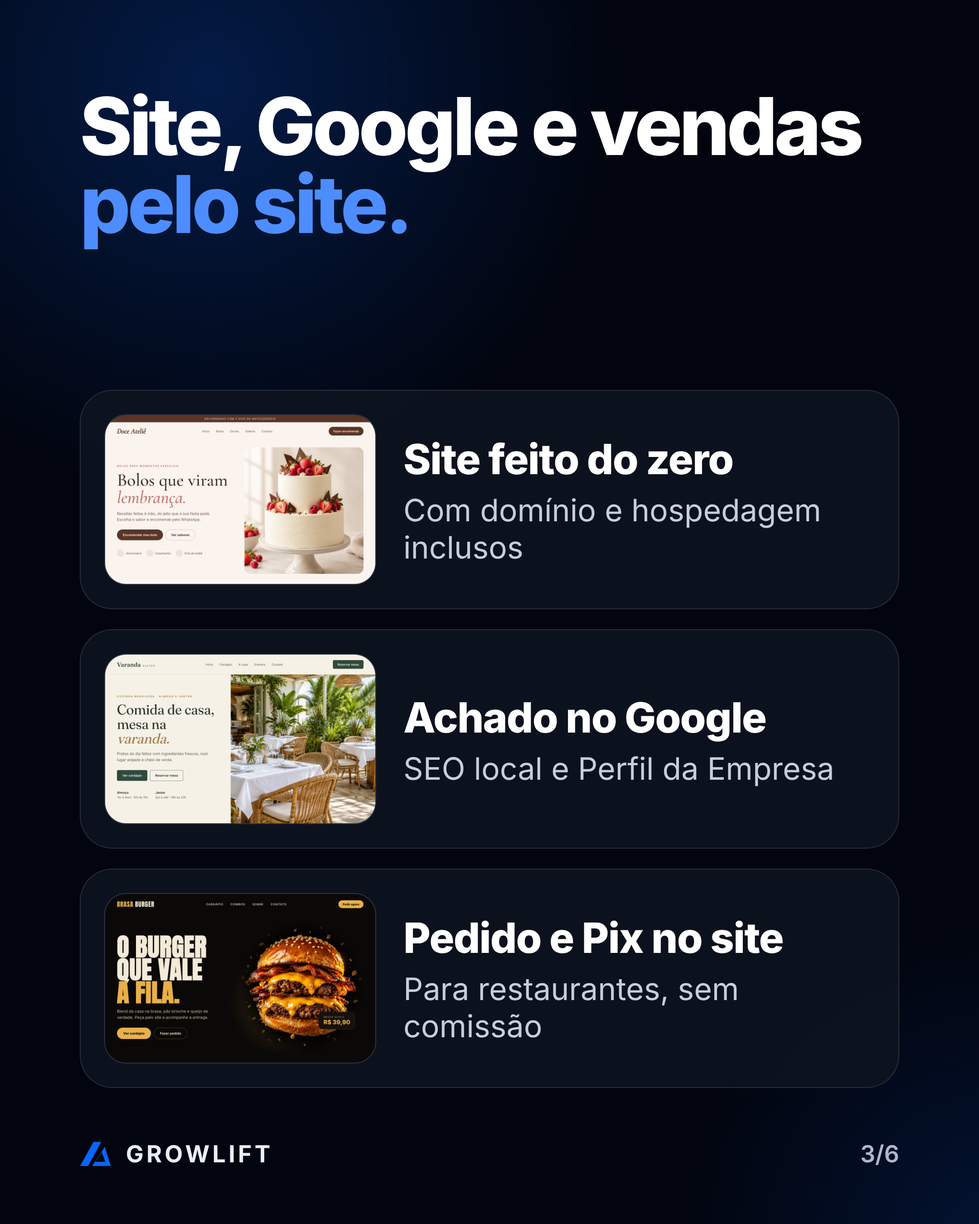
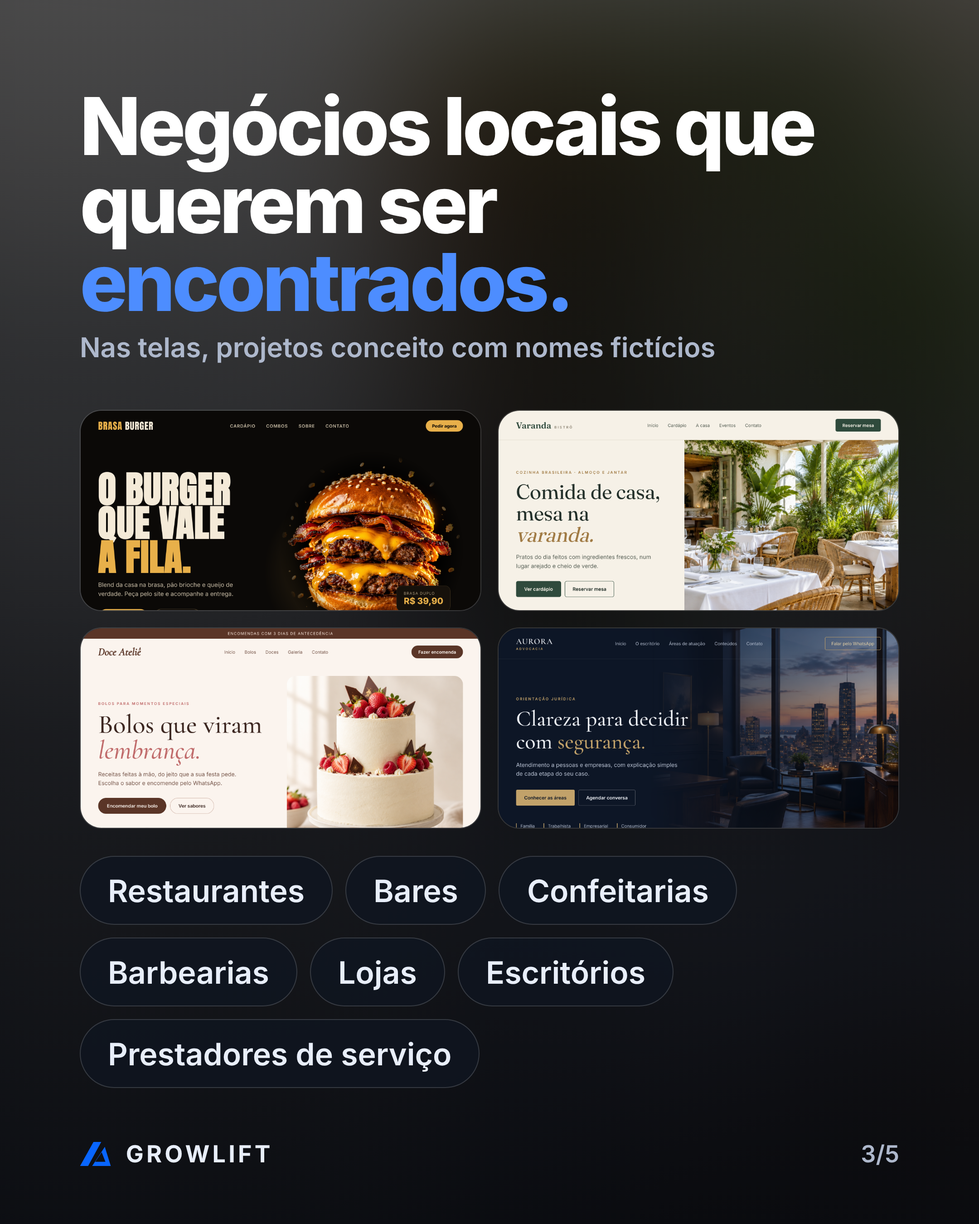
Instagram: Quem somos com 5 imagens, sem o slide do Lucas e do Antônio
Claude-Session: https://claude.ai/code/session_0144E8K5YaHTVDtLe8swm1ug

diff --git a/growlift-social/_fonte/html/04-posts-fixados/1-quem-somos/04.html b/growlift-social/_fonte/html/04-posts-fixados/1-quem-somos/04.html
@@ -38,11 +38,22 @@ body{background:#02050f}
 .feat b{flex:none;width:58px;height:58px;border-radius:50%;display:grid;place-items:center;background:#0865fe;box-shadow:0 10px 30px -8px rgba(8,101,254,.9)}
 </style></head><body>
     
-    <img src="hd/restaurante.png" style="position:absolute;left:-200px;top:-200px;width:1480px;height:1750px;object-fit:cover;filter:blur(90px) saturate(1.35);opacity:.7">
     
-    <div style="position:absolute;inset:0;background:linear-gradient(180deg,rgba(6,8,13,.6),rgba(6,8,13,.88) 60%,rgba(6,8,13,.96))"></div>
+    <div class="glow" style="width:1300px;height:1300px;left:-420px;top:-560px;opacity:.55"></div><div class="glow" style="width:1000px;height:1000px;right:-520px;bottom:-520px;opacity:.35"></div>
+    <div style="position:absolute;inset:0;background:transparent"></div>
     <div style="position:absolute;left:88px;right:88px;top:96px;bottom:150px">
-    <h2 class="t-title" style="font-size:88px">Negócios locais que querem ser <span class="blue">encontrados.</span><span style="display:block;margin-top:14px;font-size:30px;font-weight:600;letter-spacing:0;color:#aeb8cc">Nas telas, projetos conceito com nomes fictícios</span></h2>
-    
-    <div style="position:absolute;left:0;right:0;bottom:0"><div style="display:grid;grid-template-columns:1fr 1fr;gap:18px;margin-bottom:30px"><img src="hd/burger.png" style="display:block;width:100%;height:222px;object-fit:cover;object-position:top;border-radius:24px;border:1.5px solid rgba(255,255,255,.14)"><img src="hd/restaurante.png" style="display:block;width:100%;height:222px;object-fit:cover;object-position:top;border-radius:24px;border:1.5px solid rgba(255,255,255,.14)"><img src="hd/confeitaria.png" style="display:block;width:100%;height:222px;object-fit:cover;object-position:top;border-radius:24px;border:1.5px solid rgba(255,255,255,.14)"><img src="hd/advocacia.png" style="display:block;width:100%;height:222px;object-fit:cover;object-position:top;border-radius:24px;border:1.5px solid rgba(255,255,255,.14)"></div><div style="display:flex;flex-wrap:wrap;gap:14px"><span style="height:76px;padding:0 30px;border-radius:999px;display:inline-flex;align-items:center;font-size:34px;font-weight:600;color:#e8eefa;background:rgba(15,21,32,.8);border:1.5px solid rgba(255,255,255,.16)">Restaurantes</span><span style="height:76px;padding:0 30px;border-radius:999px;display:inline-flex;align-items:center;font-size:34px;font-weight:600;color:#e8eefa;background:rgba(15,21,32,.8);border:1.5px solid rgba(255,255,255,.16)">Bares</span><span style="height:76px;padding:0 30px;border-radius:999px;display:inline-flex;align-items:center;font-size:34px;font-weight:600;color:#e8eefa;background:rgba(15,21,32,.8);border:1.5px solid rgba(255,255,255,.16)">Confeitarias</span><span style="height:76px;padding:0 30px;border-radius:999px;display:inline-flex;align-items:center;font-size:34px;font-weight:600;color:#e8eefa;background:rgba(15,21,32,.8);border:1.5px solid rgba(255,255,255,.16)">Barbearias</span><span style="height:76px;padding:0 30px;border-radius:999px;display:inline-flex;align-items:center;font-size:34px;font-weight:600;color:#e8eefa;background:rgba(15,21,32,.8);border:1.5px solid rgba(255,255,255,.16)">Lojas</span><span style="height:76px;padding:0 30px;border-radius:999px;display:inline-flex;align-items:center;font-size:34px;font-weight:600;color:#e8eefa;background:rgba(15,21,32,.8);border:1.5px solid rgba(255,255,255,.16)">Escritórios</span><span style="height:76px;padding:0 30px;border-radius:999px;display:inline-flex;align-items:center;font-size:34px;font-weight:600;color:#e8eefa;background:rgba(15,21,32,.8);border:1.5px solid rgba(255,255,255,.16)">Prestadores de serviço</span></div></div></div>
-    <div style="position:absolute;left:88px;right:88px;bottom:62px;display:flex;justify-content:space-between;align-items:center;font-size:26px;color:#aeb8cc"><div class="brand" style="font-size:26px;color:#e8eefa"><svg viewBox="50 40 530 415" xmlns="http://www.w3.org/2000/svg"><path fill="#0865FE" d="M280 48H410L190 450H55Z"/><path fill="#0865FE" fill-rule="evenodd" d="M470 130L570 450H258Z M418 220L480 380H309Z"/></svg>GROWLIFT</div><span style="font-weight:600">4/6</span></div></body></html>
+    <h2 class="t-title" style="font-size:88px">Você vê o site antes de <span class="blue">pagar.</span></h2>
+    <p class="t-lead" style="font-size:38px;margin-top:22px">Três passos, sem surpresa no caminho.</p>
+    <ol style="position:absolute;left:0;right:0;bottom:0;list-style:none;display:grid;gap:22px">
+      <li style="display:flex;gap:30px;align-items:center;padding:26px;border-radius:36px;background:rgba(15,21,32,.8);border:1.5px solid rgba(255,255,255,.12)">
+        <span style="flex:none;width:132px;height:132px;margin:8px 4px 8px 8px;border-radius:36px;display:grid;place-items:center;font-size:66px;font-weight:800;color:#fff;background:#0865fe;box-shadow:0 16px 40px -10px rgba(8,101,254,.9)">1</span>
+        <span><span style="display:block;font-size:46px;font-weight:800;color:#fff;letter-spacing:-.02em">Diagnóstico grátis</span><span style="display:block;font-size:34px;color:#c6cede;margin-top:8px">Pelo site, em 2 minutos</span></span>
+      </li><li style="display:flex;gap:30px;align-items:center;padding:26px;border-radius:36px;background:rgba(15,21,32,.8);border:1.5px solid rgba(255,255,255,.12)">
+        <span style="flex:none;width:132px;height:132px;margin:8px 4px 8px 8px;border-radius:36px;display:grid;place-items:center;font-size:66px;font-weight:800;color:#fff;background:#0865fe;box-shadow:0 16px 40px -10px rgba(8,101,254,.9)">2</span>
+        <span><span style="display:block;font-size:46px;font-weight:800;color:#fff;letter-spacing:-.02em">Prévia no WhatsApp</span><span style="display:block;font-size:34px;color:#c6cede;margin-top:8px">Em até 2 dias úteis</span></span>
+      </li><li style="display:flex;gap:30px;align-items:center;padding:26px;border-radius:36px;background:rgba(15,21,32,.8);border:1.5px solid rgba(255,255,255,.12)">
+        <span style="flex:none;width:132px;height:132px;margin:8px 4px 8px 8px;border-radius:36px;display:grid;place-items:center;font-size:66px;font-weight:800;color:#fff;background:#0865fe;box-shadow:0 16px 40px -10px rgba(8,101,254,.9)">3</span>
+        <span><span style="display:block;font-size:46px;font-weight:800;color:#fff;letter-spacing:-.02em">Site no ar</span><span style="display:block;font-size:34px;color:#c6cede;margin-top:8px">Com o seu domínio</span></span>
+      </li>
+    </ol></div>
+    <div style="position:absolute;left:88px;right:88px;bottom:62px;display:flex;justify-content:space-between;align-items:center;font-size:26px;color:#aeb8cc"><div class="brand" style="font-size:26px;color:#e8eefa"><svg viewBox="50 40 530 415" xmlns="http://www.w3.org/2000/svg"><path fill="#0865FE" d="M280 48H410L190 450H55Z"/><path fill="#0865FE" fill-rule="evenodd" d="M470 130L570 450H258Z M418 220L480 380H309Z"/></svg>GROWLIFT</div><span style="font-weight:600">4/5</span></div></body></html>

diff --git a/growlift-social/_fonte/html/04-posts-fixados/1-quem-somos/03.html b/growlift-social/_fonte/html/04-posts-fixados/1-quem-somos/03.html
@@ -38,22 +38,11 @@ body{background:#02050f}
 .feat b{flex:none;width:58px;height:58px;border-radius:50%;display:grid;place-items:center;background:#0865fe;box-shadow:0 10px 30px -8px rgba(8,101,254,.9)}
 </style></head><body>
     
+    <img src="hd/restaurante.png" style="position:absolute;left:-200px;top:-200px;width:1480px;height:1750px;object-fit:cover;filter:blur(90px) saturate(1.35);opacity:.7">
     
-    <div class="glow" style="width:1300px;height:1300px;left:-420px;top:-560px;opacity:.55"></div><div class="glow" style="width:1000px;height:1000px;right:-520px;bottom:-520px;opacity:.35"></div>
-    <div style="position:absolute;inset:0;background:transparent"></div>
+    <div style="position:absolute;inset:0;background:linear-gradient(180deg,rgba(6,8,13,.6),rgba(6,8,13,.88) 60%,rgba(6,8,13,.96))"></div>
     <div style="position:absolute;left:88px;right:88px;top:96px;bottom:150px">
-    <h2 class="t-title" style="font-size:88px">Site, Google e vendas <span class="blue">pelo site.</span></h2>
+    <h2 class="t-title" style="font-size:88px">Negócios locais que querem ser <span class="blue">encontrados.</span><span style="display:block;margin-top:14px;font-size:30px;font-weight:600;letter-spacing:0;color:#aeb8cc">Nas telas, projetos conceito com nomes fictícios</span></h2>
     
-    <ol style="position:absolute;left:0;right:0;bottom:0;list-style:none;display:grid;gap:22px">
-      <li style="display:flex;gap:30px;align-items:center;padding:26px;border-radius:36px;background:rgba(15,21,32,.8);border:1.5px solid rgba(255,255,255,.12)">
-        <img src="hd/confeitaria.png" style="flex:none;width:300px;height:188px;object-fit:cover;object-position:top;border-radius:24px;border:1.5px solid rgba(255,255,255,.14)">
-        <span><span style="display:block;font-size:46px;font-weight:800;color:#fff;letter-spacing:-.02em">Site feito do zero</span><span style="display:block;font-size:34px;color:#c6cede;margin-top:8px">Com domínio e hospedagem inclusos</span></span>
-      </li><li style="display:flex;gap:30px;align-items:center;padding:26px;border-radius:36px;background:rgba(15,21,32,.8);border:1.5px solid rgba(255,255,255,.12)">
-        <img src="hd/restaurante.png" style="flex:none;width:300px;height:188px;object-fit:cover;object-position:top;border-radius:24px;border:1.5px solid rgba(255,255,255,.14)">
-        <span><span style="display:block;font-size:46px;font-weight:800;color:#fff;letter-spacing:-.02em">Achado no Google</span><span style="display:block;font-size:34px;color:#c6cede;margin-top:8px">SEO local e Perfil da Empresa</span></span>
-      </li><li style="display:flex;gap:30px;align-items:center;padding:26px;border-radius:36px;background:rgba(15,21,32,.8);border:1.5px solid rgba(255,255,255,.12)">
-        <img src="hd/burger.png" style="flex:none;width:300px;height:188px;object-fit:cover;object-position:top;border-radius:24px;border:1.5px solid rgba(255,255,255,.14)">
-        <span><span style="display:block;font-size:46px;font-weight:800;color:#fff;letter-spacing:-.02em">Pedido e Pix no site</span><span style="display:block;font-size:34px;color:#c6cede;margin-top:8px">Para restaurantes, sem comissão</span></span>
-      </li>
-    </ol></div>
-    <div style="position:absolute;left:88px;right:88px;bottom:62px;display:flex;justify-content:space-between;align-items:center;font-size:26px;color:#aeb8cc"><div class="brand" style="font-size:26px;color:#e8eefa"><svg viewBox="50 40 530 415" xmlns="http://www.w3.org/2000/svg"><path fill="#0865FE" d="M280 48H410L190 450H55Z"/><path fill="#0865FE" fill-rule="evenodd" d="M470 130L570 450H258Z M418 220L480 380H309Z"/></svg>GROWLIFT</div><span style="font-weight:600">3/6</span></div></body></html>
+    <div style="position:absolute;left:0;right:0;bottom:0"><div style="display:grid;grid-template-columns:1fr 1fr;gap:18px;margin-bottom:30px"><img src="hd/burger.png" style="display:block;width:100%;height:222px;object-fit:cover;object-position:top;border-radius:24px;border:1.5px solid rgba(255,255,255,.14)"><img src="hd/restaurante.png" style="display:block;width:100%;height:222px;object-fit:cover;object-position:top;border-radius:24px;border:1.5px solid rgba(255,255,255,.14)"><img src="hd/confeitaria.png" style="display:block;width:100%;height:222px;object-fit:cover;object-position:top;border-radius:24px;border:1.5px solid rgba(255,255,255,.14)"><img src="hd/advocacia.png" style="display:block;width:100%;height:222px;object-fit:cover;object-position:top;border-radius:24px;border:1.5px solid rgba(255,255,255,.14)"></div><div style="display:flex;flex-wrap:wrap;gap:14px"><span style="height:76px;padding:0 30px;border-radius:999px;display:inline-flex;align-items:center;font-size:34px;font-weight:600;color:#e8eefa;background:rgba(15,21,32,.8);border:1.5px solid rgba(255,255,255,.16)">Restaurantes</span><span style="height:76px;padding:0 30px;border-radius:999px;display:inline-flex;align-items:center;font-size:34px;font-weight:600;color:#e8eefa;background:rgba(15,21,32,.8);border:1.5px solid rgba(255,255,255,.16)">Bares</span><span style="height:76px;padding:0 30px;border-radius:999px;display:inline-flex;align-items:center;font-size:34px;font-weight:600;color:#e8eefa;background:rgba(15,21,32,.8);border:1.5px solid rgba(255,255,255,.16)">Confeitarias</span><span style="height:76px;padding:0 30px;border-radius:999px;display:inline-flex;align-items:center;font-size:34px;font-weight:600;color:#e8eefa;background:rgba(15,21,32,.8);border:1.5px solid rgba(255,255,255,.16)">Barbearias</span><span style="height:76px;padding:0 30px;border-radius:999px;display:inline-flex;align-items:center;font-size:34px;font-weight:600;color:#e8eefa;background:rgba(15,21,32,.8);border:1.5px solid rgba(255,255,255,.16)">Lojas</span><span style="height:76px;padding:0 30px;border-radius:999px;display:inline-flex;align-items:center;font-size:34px;font-weight:600;color:#e8eefa;background:rgba(15,21,32,.8);border:1.5px solid rgba(255,255,255,.16)">Escritórios</span><span style="height:76px;padding:0 30px;border-radius:999px;display:inline-flex;align-items:center;font-size:34px;font-weight:600;color:#e8eefa;background:rgba(15,21,32,.8);border:1.5px solid rgba(255,255,255,.16)">Prestadores de serviço</span></div></div></div>
+    <div style="position:absolute;left:88px;right:88px;bottom:62px;display:flex;justify-content:space-between;align-items:center;font-size:26px;color:#aeb8cc"><div class="brand" style="font-size:26px;color:#e8eefa"><svg viewBox="50 40 530 415" xmlns="http://www.w3.org/2000/svg"><path fill="#0865FE" d="M280 48H410L190 450H55Z"/><path fill="#0865FE" fill-rule="evenodd" d="M470 130L570 450H258Z M418 220L480 380H309Z"/></svg>GROWLIFT</div><span style="font-weight:600">3/5</span></div></body></html>

diff --git a/growlift-social/_fonte/html/04-posts-fixados/1-quem-somos/02.html b/growlift-social/_fonte/html/04-posts-fixados/1-quem-somos/02.html
@@ -42,8 +42,18 @@ body{background:#02050f}
     <div class="glow" style="width:1300px;height:1300px;left:-420px;top:-560px;opacity:.55"></div><div class="glow" style="width:1000px;height:1000px;right:-520px;bottom:-520px;opacity:.35"></div>
     <div style="position:absolute;inset:0;background:transparent"></div>
     <div style="position:absolute;left:88px;right:88px;top:96px;bottom:150px">
-    <h2 class="t-title" style="font-size:88px">Gente de verdade do outro lado do <span class="blue">WhatsApp.</span></h2>
-    <p class="t-lead" style="font-size:38px;margin-top:26px">A Growlift é o Lucas e o Antônio. Somos jovens, de São Paulo, e crescemos usando a internet do jeito que o seu cliente usa.</p>
-    <div style="position:absolute;left:0;right:0;bottom:0"><div style="display:grid;grid-template-columns:1fr 1fr;gap:24px"><div style="height:470px;display:flex;flex-direction:column;align-items:center;justify-content:center;gap:34px;border-radius:40px;background:rgba(15,21,32,.8);border:1.5px solid rgba(255,255,255,.12)"><span style="width:230px;height:230px;border-radius:50%;display:grid;place-items:center;font-size:120px;font-weight:800;color:#fff;background:radial-gradient(circle at 34% 26%,#4d8dff,#0865fe 45%,#0544b8);box-shadow:0 30px 70px -18px rgba(8,101,254,.95)">L</span><span style="font-size:58px;font-weight:800;letter-spacing:-.02em">Lucas</span></div><div style="height:470px;display:flex;flex-direction:column;align-items:center;justify-content:center;gap:34px;border-radius:40px;background:rgba(15,21,32,.8);border:1.5px solid rgba(255,255,255,.12)"><span style="width:230px;height:230px;border-radius:50%;display:grid;place-items:center;font-size:120px;font-weight:800;color:#fff;background:radial-gradient(circle at 34% 26%,#4d8dff,#0865fe 45%,#0544b8);box-shadow:0 30px 70px -18px rgba(8,101,254,.95)">A</span><span style="font-size:58px;font-weight:800;letter-spacing:-.02em">Antônio</span></div></div>
-  <p style="margin-top:24px;font-size:34px;color:#dfe5f0;display:flex;align-items:center;gap:14px"><svg width="40" height="40" viewBox="0 0 24 24" fill="none" stroke="#4d8dff" stroke-width="2" stroke-linecap="round" stroke-linejoin="round" aria-hidden="true"><path d="M12 21s-7-6.2-7-11.5a7 7 0 0 1 14 0C19 14.8 12 21 12 21z"/><circle cx="12" cy="9.5" r="2.5"/></svg>São Paulo · atendimento pelo WhatsApp</p></div></div>
-    <div style="position:absolute;left:88px;right:88px;bottom:62px;display:flex;justify-content:space-between;align-items:center;font-size:26px;color:#aeb8cc"><div class="brand" style="font-size:26px;color:#e8eefa"><svg viewBox="50 40 530 415" xmlns="http://www.w3.org/2000/svg"><path fill="#0865FE" d="M280 48H410L190 450H55Z"/><path fill="#0865FE" fill-rule="evenodd" d="M470 130L570 450H258Z M418 220L480 380H309Z"/></svg>GROWLIFT</div><span style="font-weight:600">2/6</span></div></body></html>
+    <h2 class="t-title" style="font-size:88px">Site, Google e vendas <span class="blue">pelo site.</span></h2>
+    
+    <ol style="position:absolute;left:0;right:0;bottom:0;list-style:none;display:grid;gap:22px">
+      <li style="display:flex;gap:30px;align-items:center;padding:26px;border-radius:36px;background:rgba(15,21,32,.8);border:1.5px solid rgba(255,255,255,.12)">
+        <img src="hd/confeitaria.png" style="flex:none;width:300px;height:188px;object-fit:cover;object-position:top;border-radius:24px;border:1.5px solid rgba(255,255,255,.14)">
+        <span><span style="display:block;font-size:46px;font-weight:800;color:#fff;letter-spacing:-.02em">Site feito do zero</span><span style="display:block;font-size:34px;color:#c6cede;margin-top:8px">Com domínio e hospedagem inclusos</span></span>
+      </li><li style="display:flex;gap:30px;align-items:center;padding:26px;border-radius:36px;background:rgba(15,21,32,.8);border:1.5px solid rgba(255,255,255,.12)">
+        <img src="hd/restaurante.png" style="flex:none;width:300px;height:188px;object-fit:cover;object-position:top;border-radius:24px;border:1.5px solid rgba(255,255,255,.14)">
+        <span><span style="display:block;font-size:46px;font-weight:800;color:#fff;letter-spacing:-.02em">Achado no Google</span><span style="display:block;font-size:34px;color:#c6cede;margin-top:8px">SEO local e Perfil da Empresa</span></span>
+      </li><li style="display:flex;gap:30px;align-items:center;padding:26px;border-radius:36px;background:rgba(15,21,32,.8);border:1.5px solid rgba(255,255,255,.12)">
+        <img src="hd/burger.png" style="flex:none;width:300px;height:188px;object-fit:cover;object-position:top;border-radius:24px;border:1.5px solid rgba(255,255,255,.14)">
+        <span><span style="display:block;font-size:46px;font-weight:800;color:#fff;letter-spacing:-.02em">Pedido e Pix no site</span><span style="display:block;font-size:34px;color:#c6cede;margin-top:8px">Para restaurantes, sem comissão</span></span>
+      </li>
+    </ol></div>
+    <div style="position:absolute;left:88px;right:88px;bottom:62px;display:flex;justify-content:space-between;align-items:center;font-size:26px;color:#aeb8cc"><div class="brand" style="font-size:26px;color:#e8eefa"><svg viewBox="50 40 530 415" xmlns="http://www.w3.org/2000/svg"><path fill="#0865FE" d="M280 48H410L190 450H55Z"/><path fill="#0865FE" fill-rule="evenodd" d="M470 130L570 450H258Z M418 220L480 380H309Z"/></svg>GROWLIFT</div><span style="font-weight:600">2/5</span></div></body></html>

diff --git a/growlift-social/_fonte/html/04-posts-fixados/1-quem-somos/05.html b/growlift-social/_fonte/html/04-posts-fixados/1-quem-somos/05.html
@@ -37,23 +37,15 @@ body{background:#02050f}
 .feat{display:flex;align-items:center;gap:24px;font-size:44px;font-weight:600;color:#f3f6fb;line-height:1.2}
 .feat b{flex:none;width:58px;height:58px;border-radius:50%;display:grid;place-items:center;background:#0865fe;box-shadow:0 10px 30px -8px rgba(8,101,254,.9)}
 </style></head><body>
+    <img src="hd/marca-vidro-vertical.png" style="position:absolute;left:0;top:-660px;width:1080px;height:1910px;object-fit:cover">
     
     
-    <div class="glow" style="width:1300px;height:1300px;left:-420px;top:-560px;opacity:.55"></div><div class="glow" style="width:1000px;height:1000px;right:-520px;bottom:-520px;opacity:.35"></div>
-    <div style="position:absolute;inset:0;background:transparent"></div>
+    <div style="position:absolute;inset:0;background:linear-gradient(180deg,rgba(2,5,15,.15) 0%,rgba(2,5,15,0) 35%,rgba(2,5,15,.82) 58%,#02050f 80%)"></div>
     <div style="position:absolute;left:88px;right:88px;top:96px;bottom:150px">
-    <h2 class="t-title" style="font-size:88px">Você vê o site antes de <span class="blue">pagar.</span></h2>
-    <p class="t-lead" style="font-size:38px;margin-top:22px">Três passos, sem surpresa no caminho.</p>
-    <ol style="position:absolute;left:0;right:0;bottom:0;list-style:none;display:grid;gap:22px">
-      <li style="display:flex;gap:30px;align-items:center;padding:26px;border-radius:36px;background:rgba(15,21,32,.8);border:1.5px solid rgba(255,255,255,.12)">
-        <span style="flex:none;width:132px;height:132px;margin:8px 4px 8px 8px;border-radius:36px;display:grid;place-items:center;font-size:66px;font-weight:800;color:#fff;background:#0865fe;box-shadow:0 16px 40px -10px rgba(8,101,254,.9)">1</span>
-        <span><span style="display:block;font-size:46px;font-weight:800;color:#fff;letter-spacing:-.02em">Diagnóstico grátis</span><span style="display:block;font-size:34px;color:#c6cede;margin-top:8px">Pelo site, em 2 minutos</span></span>
-      </li><li style="display:flex;gap:30px;align-items:center;padding:26px;border-radius:36px;background:rgba(15,21,32,.8);border:1.5px solid rgba(255,255,255,.12)">
-        <span style="flex:none;width:132px;height:132px;margin:8px 4px 8px 8px;border-radius:36px;display:grid;place-items:center;font-size:66px;font-weight:800;color:#fff;background:#0865fe;box-shadow:0 16px 40px -10px rgba(8,101,254,.9)">2</span>
-        <span><span style="display:block;font-size:46px;font-weight:800;color:#fff;letter-spacing:-.02em">Prévia no WhatsApp</span><span style="display:block;font-size:34px;color:#c6cede;margin-top:8px">Em até 2 dias úteis</span></span>
-      </li><li style="display:flex;gap:30px;align-items:center;padding:26px;border-radius:36px;background:rgba(15,21,32,.8);border:1.5px solid rgba(255,255,255,.12)">
-        <span style="flex:none;width:132px;height:132px;margin:8px 4px 8px 8px;border-radius:36px;display:grid;place-items:center;font-size:66px;font-weight:800;color:#fff;background:#0865fe;box-shadow:0 16px 40px -10px rgba(8,101,254,.9)">3</span>
-        <span><span style="display:block;font-size:46px;font-weight:800;color:#fff;letter-spacing:-.02em">Site no ar</span><span style="display:block;font-size:34px;color:#c6cede;margin-top:8px">Com o seu domínio</span></span>
-      </li>
-    </ol></div>
-    <div style="position:absolute;left:88px;right:88px;bottom:62px;display:flex;justify-content:space-between;align-items:center;font-size:26px;color:#aeb8cc"><div class="brand" style="font-size:26px;color:#e8eefa"><svg viewBox="50 40 530 415" xmlns="http://www.w3.org/2000/svg"><path fill="#0865FE" d="M280 48H410L190 450H55Z"/><path fill="#0865FE" fill-rule="evenodd" d="M470 130L570 450H258Z M418 220L480 380H309Z"/></svg>GROWLIFT</div><span style="font-weight:600">5/6</span></div></body></html>
+    <div style="position:absolute;left:0;right:0;bottom:0">
+      <h2 class="t-title" style="font-size:104px">Vamos <span class="blue">começar?</span></h2>
+      <p class="t-lead" style="font-size:40px;margin-top:24px">Peça o diagnóstico grátis e veja a prévia do seu site.</p>
+      <div style="margin-top:40px;height:112px;border-radius:999px;display:flex;align-items:center;justify-content:center;font-size:40px;font-weight:700;color:#fff;background:#0865fe;box-shadow:0 0 0 8px rgba(8,101,254,.18),0 30px 70px -20px rgba(8,101,254,.95)">Diagnóstico grátis</div>
+      <p style="margin-top:22px;font-size:32px;font-weight:600;color:#cfe0ff;text-align:center">growlift.com.br · link na bio</p>
+    </div></div>
+    <div style="position:absolute;left:88px;right:88px;bottom:62px;display:flex;justify-content:space-between;align-items:center;font-size:26px;color:#aeb8cc"><div class="brand" style="font-size:26px;color:#e8eefa"><svg viewBox="50 40 530 415" xmlns="http://www.w3.org/2000/svg"><path fill="#0865FE" d="M280 48H410L190 450H55Z"/><path fill="#0865FE" fill-rule="evenodd" d="M470 130L570 450H258Z M418 220L480 380H309Z"/></svg>GROWLIFT</div><span style="font-weight:600">5/5</span></div></body></html>

diff --git a/growlift-social/_fonte/html/04-posts-fixados/1-quem-somos/01.html b/growlift-social/_fonte/html/04-posts-fixados/1-quem-somos/01.html
@@ -47,4 +47,4 @@ body{background:#02050f}
       <p class="t-lead" style="font-size:40px;margin-top:26px">Sites, Google e vendas pelo site para negócios locais.</p>
       <span class="pill blue" style="margin-top:36px">Arraste para o lado →</span>
     </div></div>
-    <div style="position:absolute;left:88px;right:88px;bottom:62px;display:flex;justify-content:space-between;align-items:center;font-size:26px;color:#aeb8cc"><div class="brand" style="font-size:26px;color:#e8eefa"><svg viewBox="50 40 530 415" xmlns="http://www.w3.org/2000/svg"><path fill="#0865FE" d="M280 48H410L190 450H55Z"/><path fill="#0865FE" fill-rule="evenodd" d="M470 130L570 450H258Z M418 220L480 380H309Z"/></svg>GROWLIFT</div><span style="font-weight:600">1/6</span></div></body></html>
+    <div style="position:absolute;left:88px;right:88px;bottom:62px;display:flex;justify-content:space-between;align-items:center;font-size:26px;color:#aeb8cc"><div class="brand" style="font-size:26px;color:#e8eefa"><svg viewBox="50 40 530 415" xmlns="http://www.w3.org/2000/svg"><path fill="#0865FE" d="M280 48H410L190 450H55Z"/><path fill="#0865FE" fill-rule="evenodd" d="M470 130L570 450H258Z M418 220L480 380H309Z"/></svg>GROWLIFT</div><span style="font-weight:600">1/5</span></div></body></html>

diff --git a/growlift-social/04-posts-fixados/legendas.md b/growlift-social/04-posts-fixados/legendas.md
@@ -12,14 +12,14 @@ Três carrosséis de 1080×1350, prontos em `1-quem-somos/`, `2-portfolio/` e `3
 
 ---
 
-## 1 · Quem somos (6 imagens) · **ADIADO, não publicar** (decisão de 26/10/2026: rever depois)
+## 1 · Quem somos (5 imagens)
 
 **Legenda**
 
 ```
 Prazer, somos a Growlift. 👋
 
-Somos o Lucas e o Antônio, de São Paulo. A gente cria sites para negócios locais, cuida da presença no Google e coloca o pedido e o pagamento no próprio site do cliente.
+Somos de São Paulo e a gente cria sites para negócios locais, cuida da presença no Google e coloca o pedido e o pagamento no próprio site do cliente.
 
 Quem conversa com você é quem faz o seu site.
 
@@ -30,7 +30,7 @@ Quer ver como o seu negócio pode ficar? Peça o diagnóstico grátis pelo link 
 
 **Texto alternativo da 1ª imagem**: Capa com a marca da Growlift em vidro azul e o texto "Presença digital que vende".
 
-Sem fotos de pessoas (decisão de 26/10/2026): no slide 2, o Lucas e o Antônio aparecem pelas iniciais.
+Sem fotos e sem o slide do Lucas e do Antônio (decisão de 26/10/2026).
 
 ## 2 · Portfólio (7 imagens)
 
